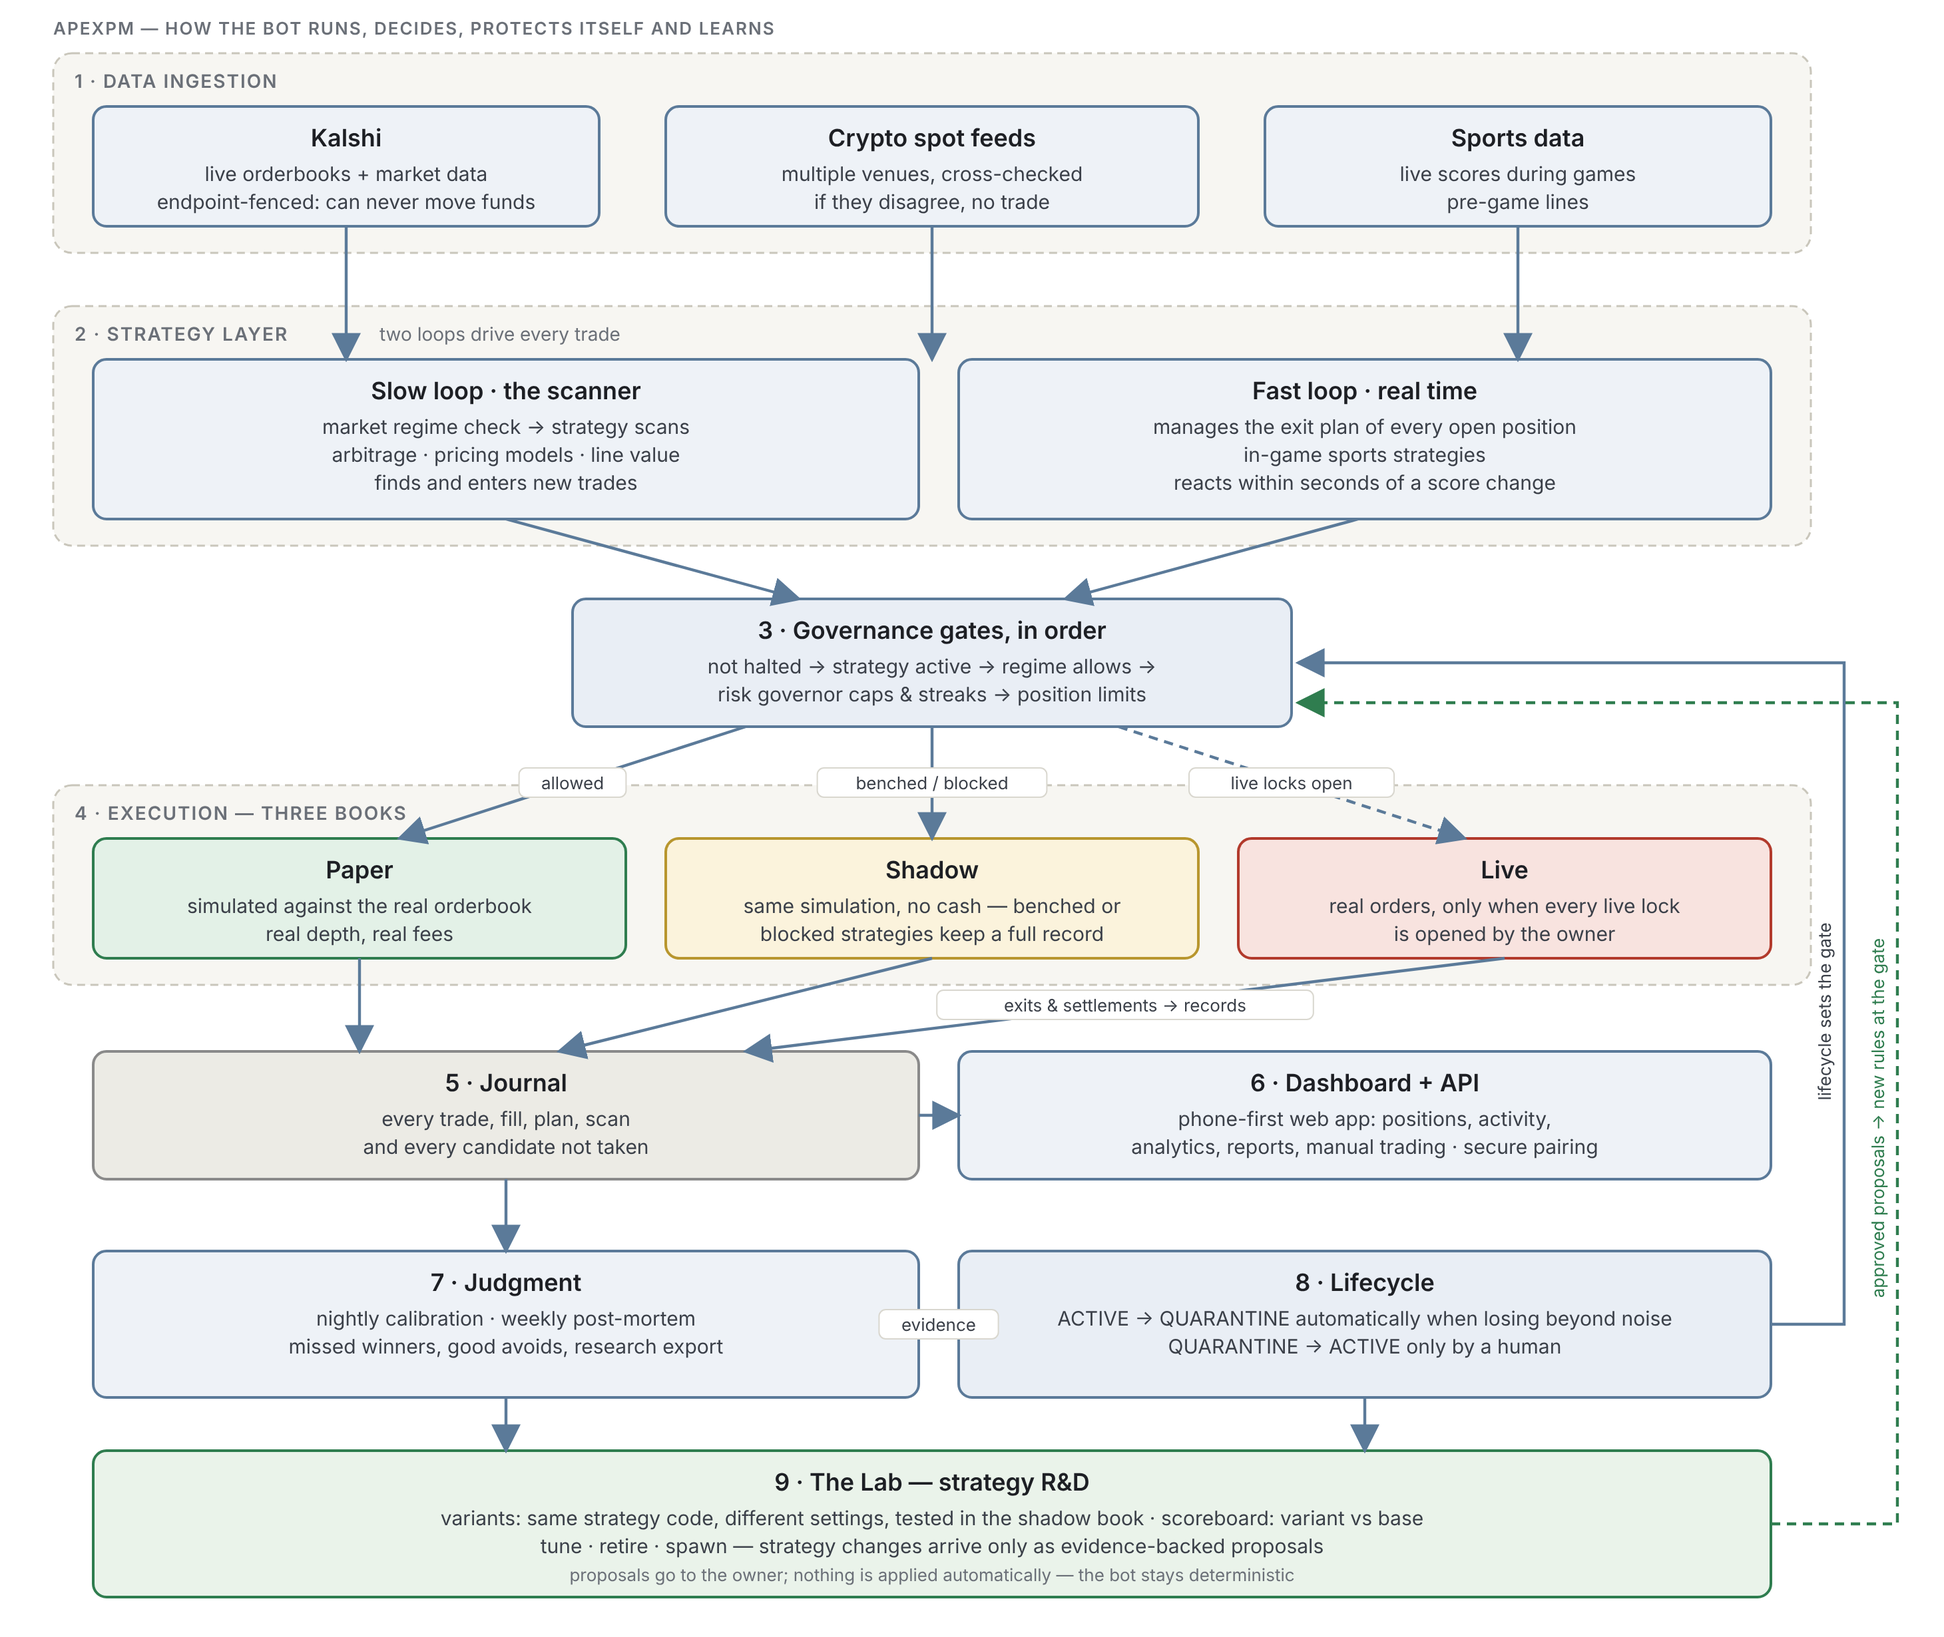
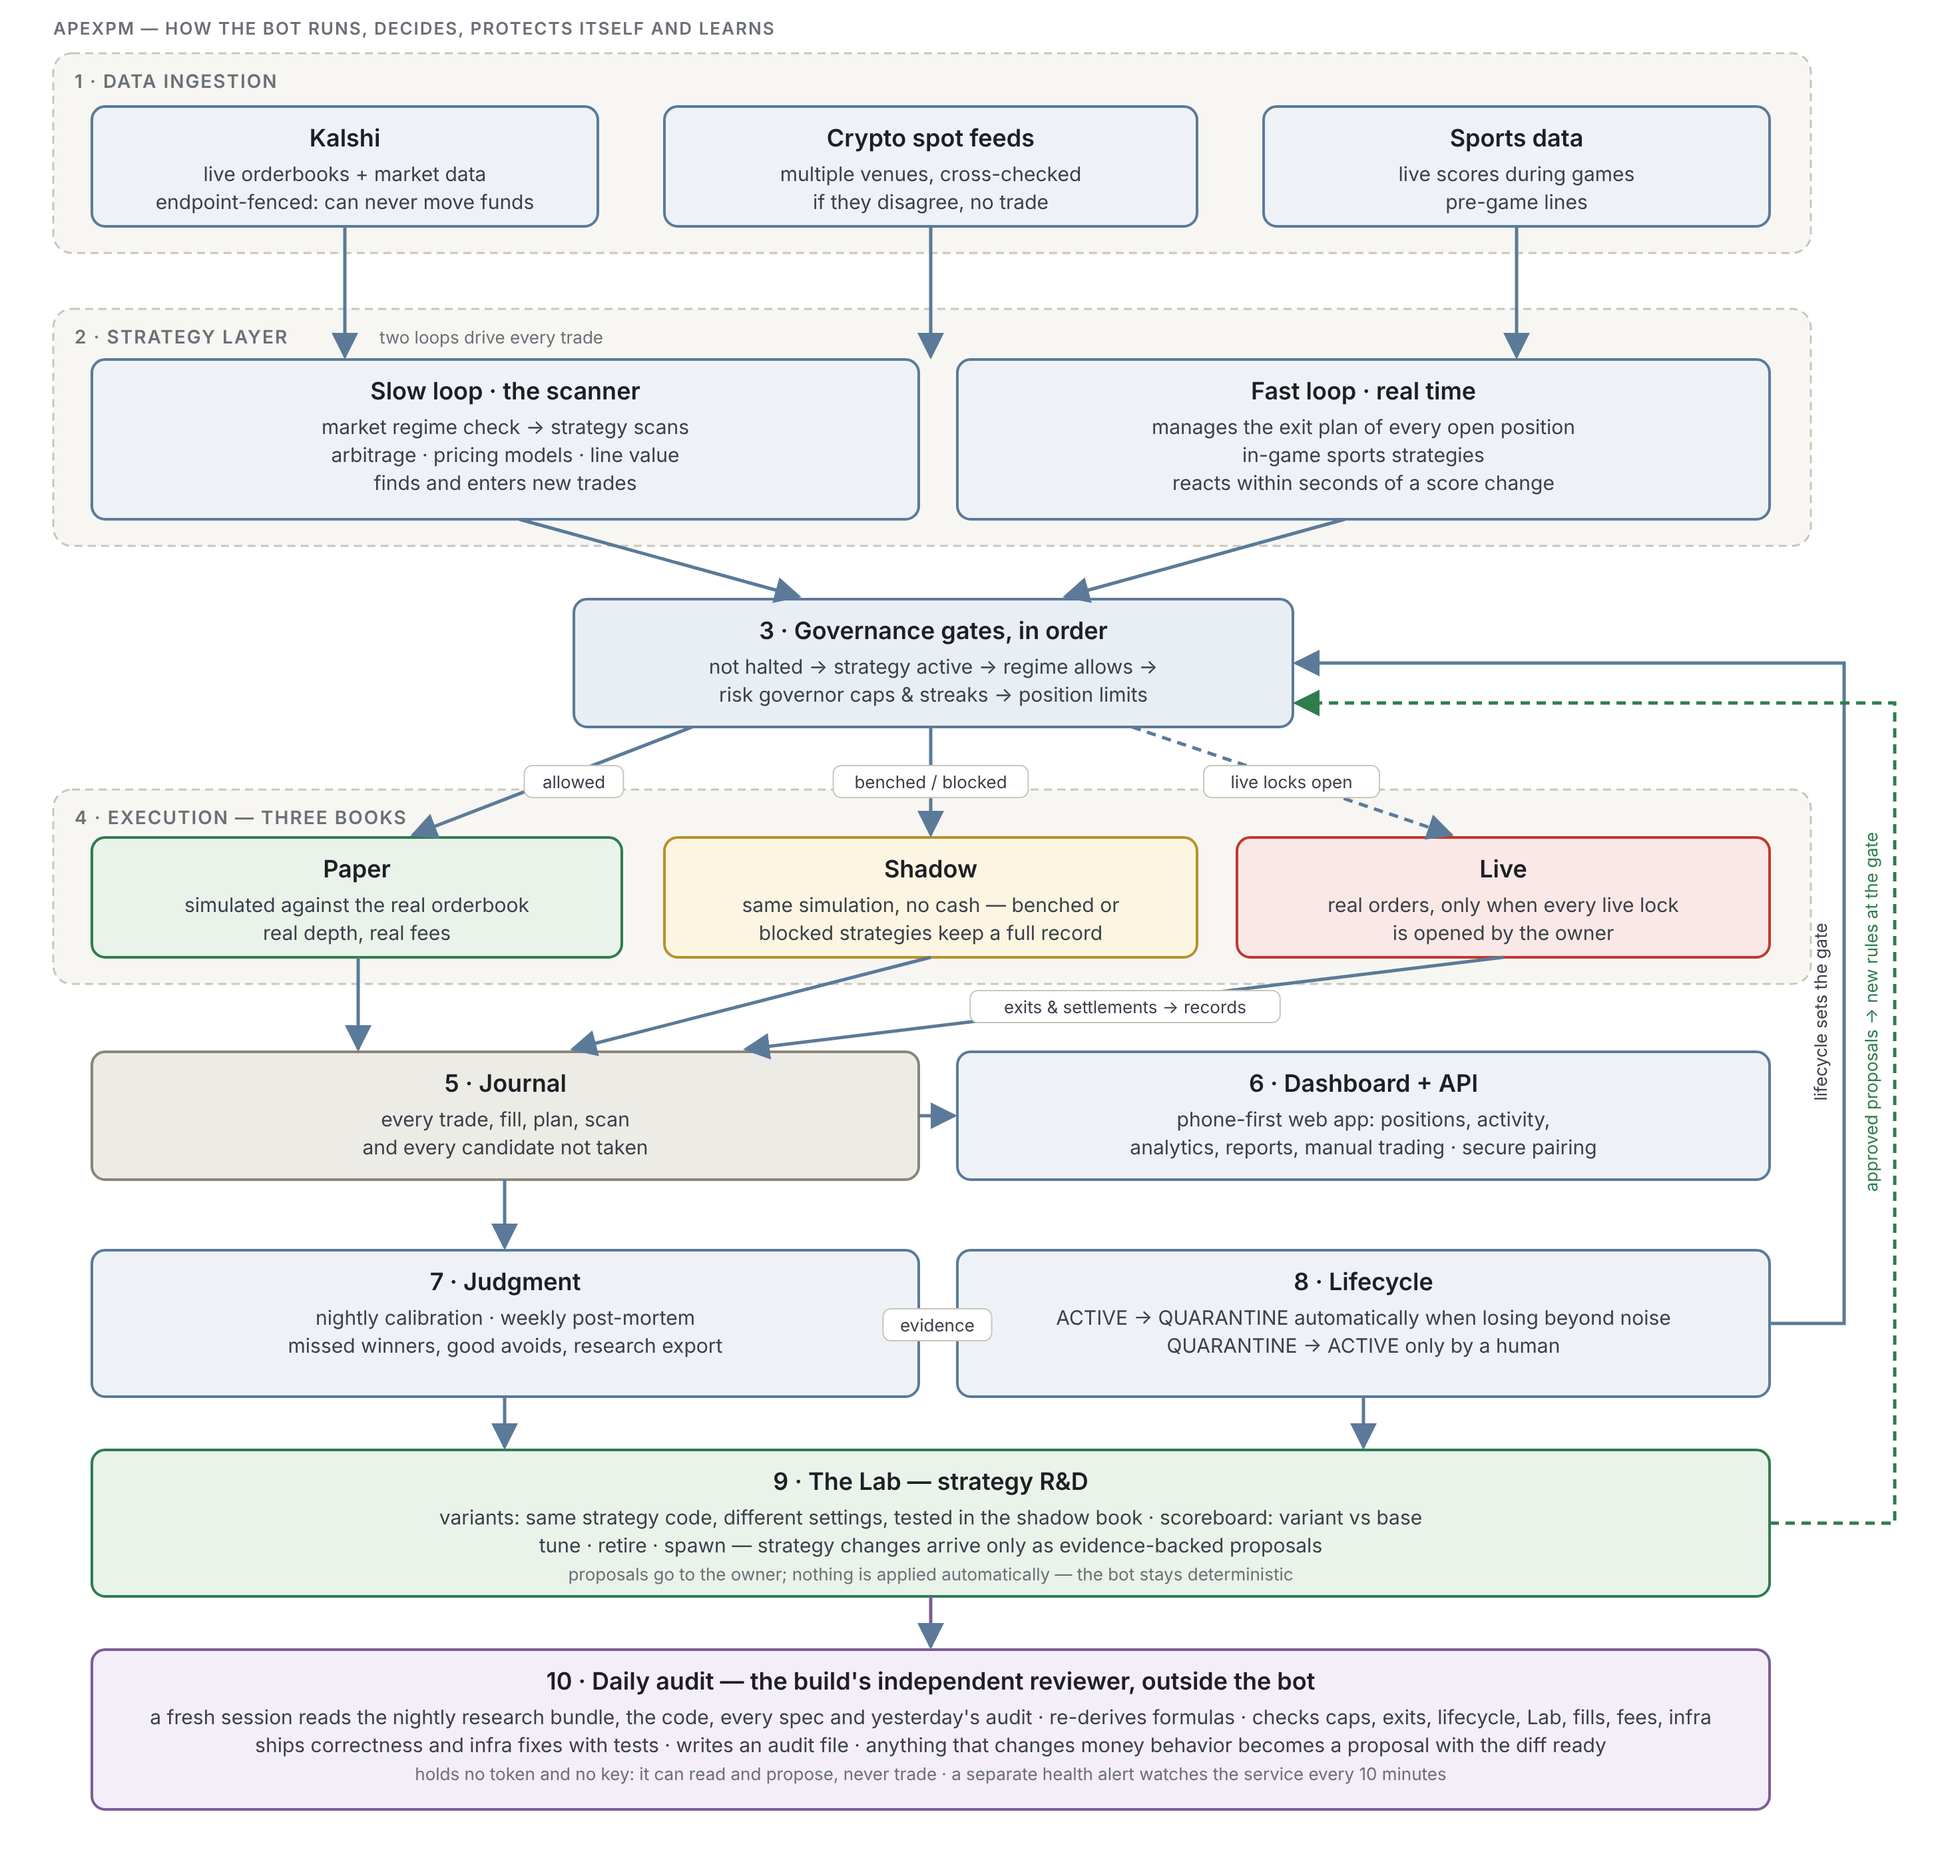
Architecture diagram: add 10 · Daily audit (independent reviewer outside the bot); diagram source in assets/architecture.py
Claude-Session: https://claude.ai/code/session_013DzieqvzXhR5Y8jbU9amCt

diff --git a/assets/architecture.py b/assets/architecture.py
@@ -1,0 +1,123 @@
+"""Source of assets/apexpm-v3-architecture.{svg,png}. Run: python3 assets/architecture.py (needs playwright for the PNG)."""
+import html
+
+W, H = 1460, 1400
+F = "Inter, 'IBM Plex Sans', Helvetica, Arial, sans-serif"
+INK, MUTED, DIM = "#1d1f24", "#3b4049", "#6b7078"
+BLUE, GREEN, GOLD, RED, GREY, PURPLE = "#5b7a99", "#2f7d4f", "#b8912a", "#c0392b", "#8a8578", "#7a5b99"
+out = []
+
+
+def t(x, y, s, size=15, weight=400, fill=MUTED, anchor="middle", extra=""):
+    out.append(f'<text x="{x}" y="{y}" text-anchor="{anchor}" font-family="{F}" font-size="{size}" font-weight="{weight}" fill="{fill}" {extra}>{html.escape(s)}</text>')
+
+
+def box(x, y, w, h, title, lines, stroke=BLUE, fill="#eef2f7", title_size=18, dim_last=False):
+    out.append(f'<rect x="{x}" y="{y}" width="{w}" height="{h}" rx="10" fill="{fill}" stroke="{stroke}" stroke-width="2"/>')
+    cx = x + w / 2
+    t(cx, y + 30, title, 18 if title_size == 18 else title_size, 600, INK)
+    for i, ln in enumerate(lines):
+        last = dim_last and i == len(lines) - 1
+        t(cx, y + 56 + i * 21, ln, 13 if last else 15, 400, DIM if last else MUTED)
+
+
+def band(x, y, w, h, label):
+    out.append(f'<rect x="{x}" y="{y}" width="{w}" height="{h}" rx="14" fill="#f7f6f2" stroke="#c9c6bb" stroke-width="1.5" stroke-dasharray="6 4"/>')
+    t(x + 16, y + 26, label, 14, 600, DIM, "start", 'letter-spacing="1"')
+
+
+def arrow(x1, y1, x2, y2, color=BLUE, dashed=False):
+    d = ' stroke-dasharray="7 5"' if dashed else ""
+    m = "ahg" if color == GREEN else "ah"
+    out.append(f'<line x1="{x1}" y1="{y1}" x2="{x2}" y2="{y2}" stroke="{color}" stroke-width="2.5"{d} marker-end="url(#{m})"/>')
+
+
+def pill(x, y, s):
+    w = len(s) * 7.2 + 24
+    out.append(f'<rect x="{x - w / 2}" y="{y - 13}" width="{w}" height="24" rx="6" fill="#fff" stroke="#c9c6bb"/>')
+    t(x, y + 4, s, 13, 400, MUTED)
+
+
+out.append(f'<svg xmlns="http://www.w3.org/2000/svg" viewBox="0 0 {W} {H}" width="{W}" height="{H}">')
+out.append('<defs><marker id="ah" viewBox="0 0 10 10" refX="9" refY="5" markerWidth="8" markerHeight="8" orient="auto-start-reverse"><path d="M0,0 L10,5 L0,10 z" fill="#5b7a99"/></marker>'
+           '<marker id="ahg" viewBox="0 0 10 10" refX="9" refY="5" markerWidth="8" markerHeight="8" orient="auto-start-reverse"><path d="M0,0 L10,5 L0,10 z" fill="#2f7d4f"/></marker></defs>')
+out.append(f'<rect width="{W}" height="{H}" fill="#ffffff"/>')
+t(40, 26, "APEXPM — HOW THE BOT RUNS, DECIDES, PROTECTS ITSELF AND LEARNS", 13, 600, DIM, "start", 'letter-spacing="1"')
+
+# 1 data
+band(40, 40, 1320, 150, "1 · DATA INGESTION")
+box(69, 80, 380, 90, "Kalshi", ["live orderbooks + market data", "endpoint-fenced: can never move funds"])
+box(499, 80, 400, 90, "Crypto spot feeds", ["multiple venues, cross-checked", "if they disagree, no trade"])
+box(949, 80, 380, 90, "Sports data", ["live scores during games", "pre-game lines"])
+
+# 2 strategy
+band(40, 232, 1320, 178, "2 · STRATEGY LAYER")
+t(285, 258, "two loops drive every trade", 13, 400, DIM, "start")
+box(69, 270, 621, 120, "Slow loop · the scanner", ["market regime check → strategy scans", "arbitrage · pricing models · line value", "finds and enters new trades"])
+box(719, 270, 610, 120, "Fast loop · real time", ["manages the exit plan of every open position", "in-game sports strategies", "reacts within seconds of a score change"])
+arrow(259, 170, 259, 268); arrow(699, 170, 699, 268); arrow(1139, 170, 1139, 268)
+
+# 3 gates
+box(431, 450, 540, 96, "3 · Governance gates, in order", ["not halted → strategy active → regime allows →", "risk governor caps & streaks → position limits"], fill="#e9eef5")
+arrow(390, 390, 600, 448); arrow(1010, 390, 800, 448)
+
+# 4 execution
+band(40, 593, 1320, 146, "4 · EXECUTION — THREE BOOKS")
+box(69, 629, 398, 90, "Paper", ["simulated against the real orderbook", "real depth, real fees"], GREEN, "#eaf3ea")
+box(499, 629, 400, 90, "Shadow", ["same simulation, no cash — benched or", "blocked strategies keep a full record"], GOLD, "#fbf5e2")
+box(929, 629, 400, 90, "Live", ["real orders, only when every live lock", "is opened by the owner"], RED, "#f9e8e5")
+arrow(520, 546, 310, 627); pill(431, 588, "allowed")
+arrow(699, 546, 699, 627); pill(699, 588, "benched / blocked")
+arrow(850, 546, 1090, 627, BLUE, True); pill(970, 588, "live locks open")
+
+# 5 journal, 6 dashboard
+box(69, 790, 621, 96, "5 · Journal", ["every trade, fill, plan, scan", "and every candidate not taken"], GREY, "#ecebe6")
+box(719, 790, 610, 96, "6 · Dashboard + API", ["phone-first web app: positions, activity,", "analytics, reports, manual trading · secure pairing"])
+arrow(269, 719, 269, 788); arrow(699, 719, 430, 788); arrow(1129, 719, 560, 788); pill(845, 757, "exits & settlements → records")
+arrow(690, 838, 717, 838)
+
+# 7 judgment, 8 lifecycle
+box(69, 939, 621, 110, "7 · Judgment", ["nightly calibration · weekly post-mortem", "missed winners, good avoids, research export"])
+box(719, 939, 610, 110, "8 · Lifecycle", ["ACTIVE → QUARANTINE automatically when losing beyond noise", "QUARANTINE → ACTIVE only by a human"])
+arrow(379, 886, 379, 937); arrow(690, 994, 717, 994); pill(704, 996, "evidence")
+# lifecycle sets the gate
+out.append(f'<path d="M1329,994 L1385,994 L1385,498 L973,498" fill="none" stroke="{BLUE}" stroke-width="2.5" marker-end="url(#ah)"/>')
+t(1372, 760, "lifecycle sets the gate", 13, 400, MUTED, "middle", 'transform="rotate(-90 1372 760)"')
+
+# 9 lab
+box(69, 1089, 1260, 110, "9 · The Lab — strategy R&D",
+    ["variants: same strategy code, different settings, tested in the shadow book · scoreboard: variant vs base",
+     "tune · retire · spawn — strategy changes arrive only as evidence-backed proposals",
+     "proposals go to the owner; nothing is applied automatically — the bot stays deterministic"], GREEN, "#eaf3ea", dim_last=True)
+arrow(379, 1049, 379, 1087); arrow(1024, 1049, 1024, 1087)
+out.append(f'<path d="M1329,1144 L1423,1144 L1423,528 L973,528" fill="none" stroke="{GREEN}" stroke-width="2.5" stroke-dasharray="7 5" marker-end="url(#ahg)"/>')
+t(1410, 760, "approved proposals → new rules at the gate", 13, 400, GREEN, "middle", 'transform="rotate(-90 1410 760)"')
+
+# 10 daily audit (outside the bot)
+box(69, 1239, 1260, 120, "10 · Daily audit — the build's independent reviewer, outside the bot",
+    ["a fresh session reads the nightly research bundle, the code, every spec and yesterday's audit · re-derives formulas · checks caps, exits, lifecycle, Lab, fills, fees, infra",
+     "ships correctness and infra fixes with tests · writes an audit file · anything that changes money behavior becomes a proposal with the diff ready",
+     "holds no token and no key: it can read and propose, never trade · a separate health alert watches the service every 10 minutes"], PURPLE, "#f3eef7", dim_last=True)
+arrow(699, 1199, 699, 1237, PURPLE) if False else out.append(f'<line x1="699" y1="1199" x2="699" y2="1237" stroke="{PURPLE}" stroke-width="2.5" marker-end="url(#ah)"/>')
+out.append("</svg>")
+
+svg = "\n".join(out)
+open("assets/apexpm-v3-architecture.svg", "w").write(svg)
+print("svg written")
+
+try:
+    import asyncio
+    from playwright.async_api import async_playwright
+
+    async def main():
+        async with async_playwright() as p:
+            b = await p.chromium.launch()
+            pg = await b.new_page(viewport={"width": W, "height": H}, device_scale_factor=2)
+            await pg.set_content("<html><body style='margin:0;background:#fff'>" + svg + "</body></html>")
+            await pg.wait_for_timeout(300)
+            await pg.screenshot(path="assets/apexpm-v3-architecture.png", clip={"x": 0, "y": 0, "width": W, "height": H})
+            await b.close()
+    asyncio.run(main())
+    print("png written")
+except Exception as e:
+    print("png skipped:", e)
